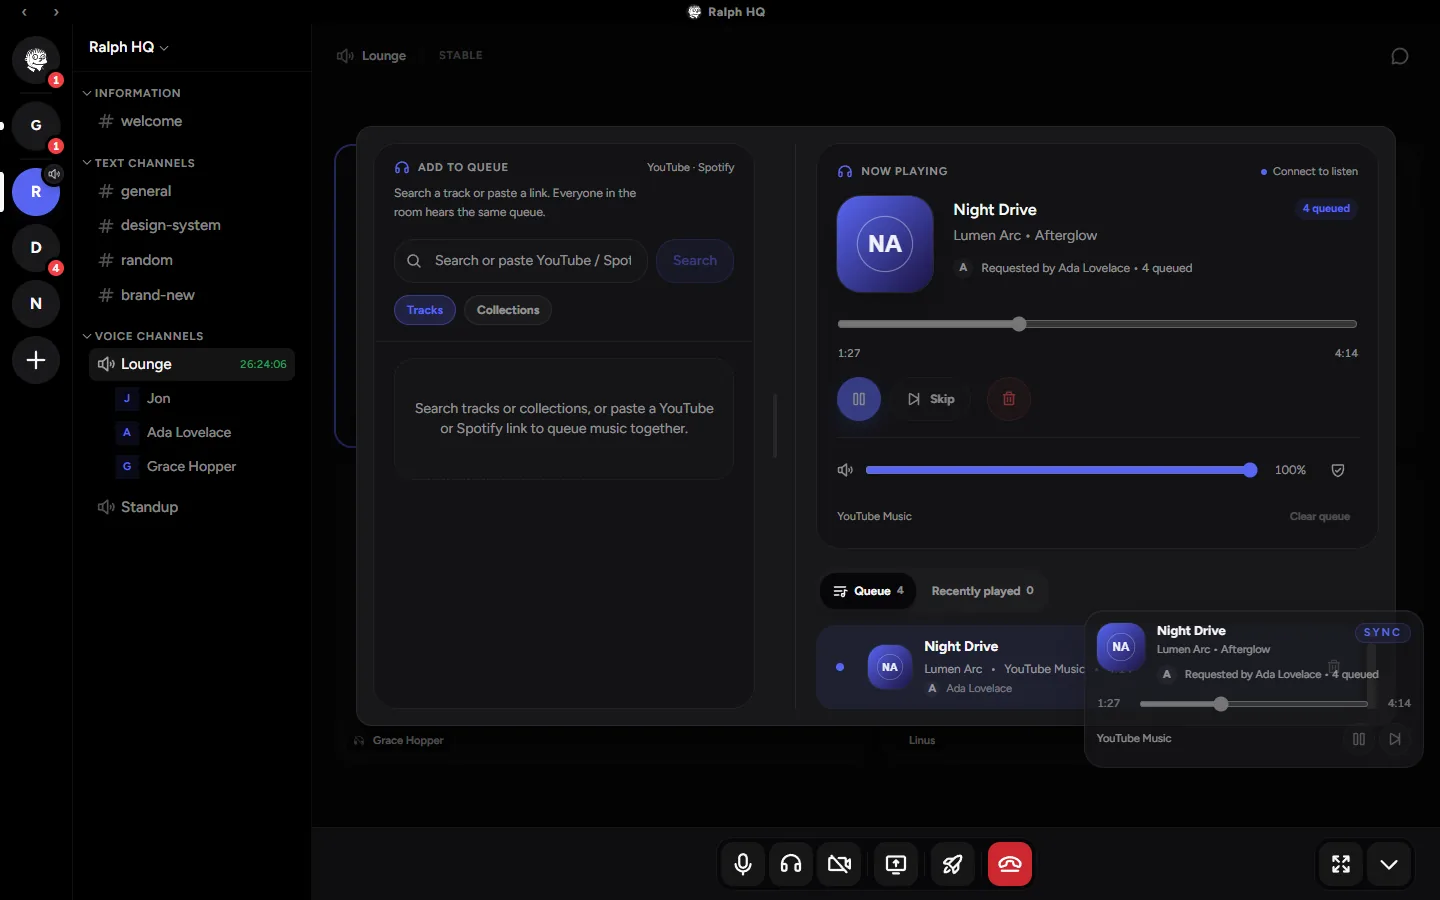
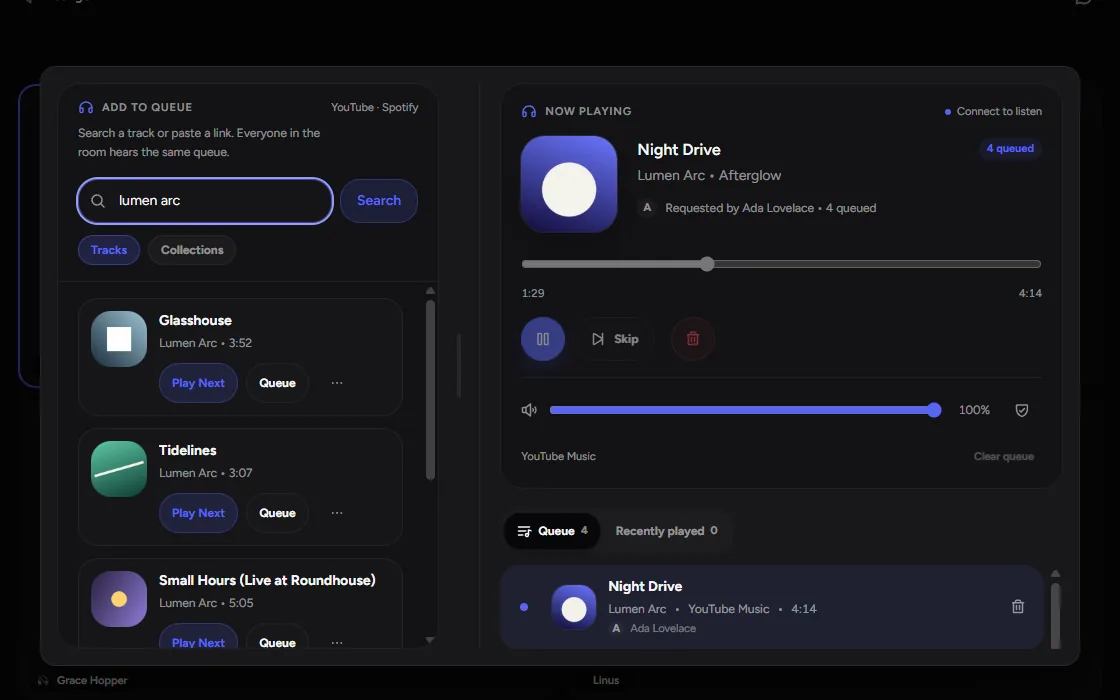
feat(home): ✨ recapture listen together cropped to the panel
Search results, cover art, now playing and the queue fill the frame at 1120x700 so the feature reads at landing size. Features can now declare their capture size.

diff --git a/src/components/home/HomeProduct.tsx b/src/components/home/HomeProduct.tsx
@@ -9,6 +9,9 @@ interface Feature {
   body: string;
   shot: string;
   alt: string;
+  /** Capture size; defaults to the 1440x900 desktop frame. */
+  width?: number;
+  height?: number;
 }
 
 const FEATURES: Feature[] = [
@@ -42,7 +45,9 @@ const FEATURES: Feature[] = [
     title: "One queue, everyone in sync.",
     body: "Paste a track or search for one. The room hears the same song at the same moment, with a queue anyone can add to.",
     shot: "listen",
-    alt: "Ralph Meet's Listen Together panel with a track playing, a shared queue and the floating now-playing card",
+    alt: "Ralph Meet's Listen Together panel: search results for Lumen Arc on the left, Night Drive playing on the right with the shared queue below",
+    width: 1120,
+    height: 700,
   },
   {
     id: "soundboard",
@@ -158,8 +163,8 @@ export function HomeProduct() {
                 <Shot
                   name={feature.shot}
                   alt={feature.alt}
-                  width={1440}
-                  height={900}
+                  width={feature.width ?? 1440}
+                  height={feature.height ?? 900}
                   sizes="(min-width: 1024px) 58vw, 100vw"
                 />
               </figure>
